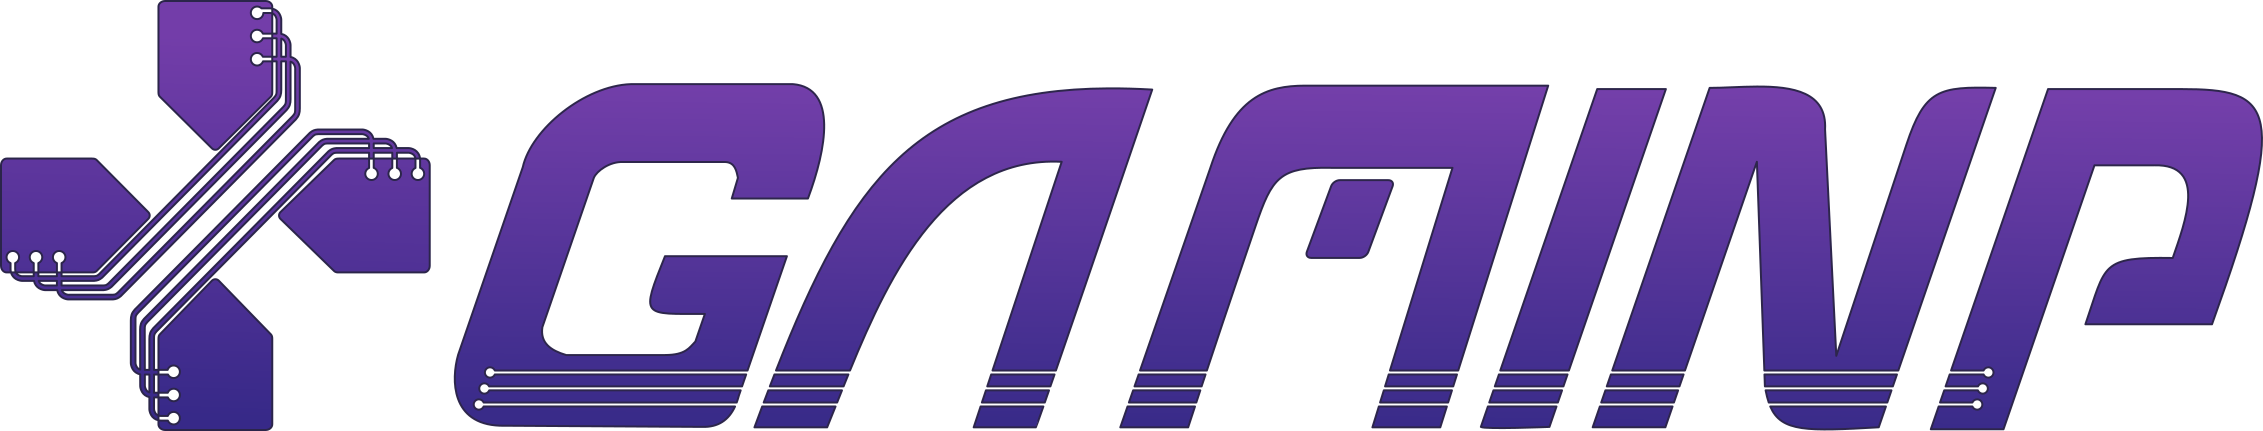
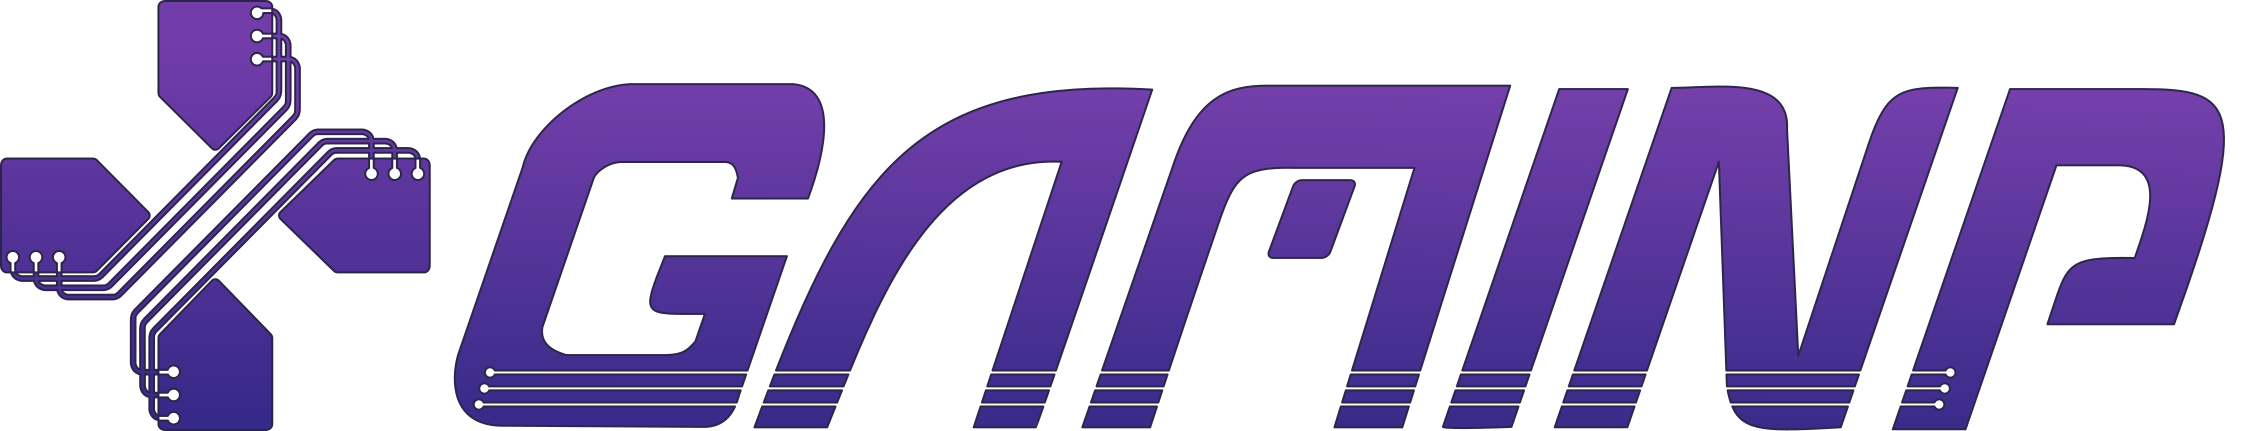
Corrige Errinhos

Changed region(s): [[0.464, 0.181, 1.0, 1.0]]

diff --git a/index.html b/index.html
@@ -28,7 +28,7 @@
   <!-- Navigation -->
   <nav class="navbar navbar-expand-lg navbar-dark fixed-top" id="mainNav">
     <div class="container" id="animate">
-      <a class="navbar-brand js-scroll-trigger" href="#page-top"><img class="img-fluid" src="img/Full_composition.png" height="50" width="300" alt=""></a>
+      <a class="navbar-brand js-scroll-trigger" href="#page-top"><img class="img-fluid" src="img/Full_composition_S.png" height="50" width="300" alt=""></a>
   
       <button class="navbar-toggler navbar-toggler-right" type="button" data-toggle="collapse" data-target="#navbarResponsive" aria-controls="navbarResponsive" aria-expanded="false" aria-label="Toggle navigation">
         Menu
@@ -36,6 +36,9 @@
       </button>
       <div class="collapse navbar-collapse" id="navbarResponsive">
         <ul class="navbar-nav text-uppercase ml-auto">
+          <li class="nav-item">
+                <a class="nav-link js-scroll-trigger" href="#about">Sobre</a>
+            </li>
           <li class="nav-item">
              <a class="nav-link js-scroll-trigger" href="#portfolio">Projetos</a>
           </li>
@@ -54,11 +57,50 @@
   <header class="masthead">
     <div class="container">
       <div class="intro-text">
-        <div class="intro-lead-in"><img class="img-fluid" src="img/Full_composition_S.png" alt=""></div>
+        <div class="intro-lead-in"><img class="img-fluid" src="img/Full_composition.png" alt=""></div>
         <div class="intro-heading text-uppercase">experimentação e desenvolvimento de jogos</div>
       </div>
     </div>
   </header>
+  <section id="about">
+    <div class="container">
+      <div class="row">
+        <div class="col-lg-12 text-center">
+          <h2 class="section-heading text-uppercase">Sobre</h2>
+          <h3 class="section-subheading text-muted">Não sei oque colocar/como colocar.</h3>
+          <p class="text-muted">O Gaminp é um grupo criado por alunos do curso de Jogos Digitais da FATEC Americana, com sede na própria FATEC de incentivo a desenvolvimento de jogos, de iniciativa e organização de alunos, que visa trazer conteúdo e prática de desenvolvimento para todos os alunos que se interessarem, trabalhando com a ideia de fomentar a troca de conhecimento entre alunos no processo de criação, além de estimular o trabalho em equipe. 
+            As atividades do grupo ocorrerão aos sábados no período da tarde,  durante o decorrer do período letivo.
+            </p>
+        </div>  
+      </div>
+      <div class="row text-center">
+        <div class="col-md-4">
+          <span class="fa-stack fa-4x">
+            <i class="fas fa-circle fa-stack-2x text-primary"></i>
+            <i class="fas fa-book fa-stack-1x fa-inverse"></i>
+          </span>
+          <h4 class="service-heading">Estudo</h4>
+          <p class="text-muted">Lorem ipsum dolor sit amet, consectetur adipisicing elit. Minima maxime quam architecto quo inventore harum ex magni, dicta impedit.</p>
+        </div>
+        <div class="col-md-4">
+          <span class="fa-stack fa-4x">
+            <i class="fas fa-circle fa-stack-2x text-primary"></i>
+            <i class="fas fa-gamepad fa-stack-1x fa-inverse"></i>
+          </span>
+          <h4 class="service-heading">Gamedev</h4>
+          <p class="text-muted">A criação de jogos, o trabalho de equipe, além do desenvolvimento de jogos todos os sábados, uma game jam online por semestre para incentivar o trabalho em grupo com uma temática dada e com um prazo estipulado. Enxerga-se também a necessidade de criação de um repositório para disponibilização dos assets para jogos que forem criados.</p>
+        </div>
+        <div class="col-md-4">
+          <span class="fa-stack fa-4x">
+            <i class="fas fa-circle fa-stack-2x text-primary"></i>
+            <i class="fas fa-calendar-alt fa-stack-1x fa-inverse"></i>
+          </span>
+          <h4 class="service-heading">Eventos</h4>
+          <p class="text-muted">Pretende-se trazer conteúdo aos alunos em forma de palestras com profissionais de áreas pertinente a Jogos Digitais e aulas práticas de criação de material, para que exponham conhecimento em palestras abertas a todos os alunos da Fatec Americana. Trazer palestrantes, aulas sobre unity e outros softwares usados na criação.</p>
+        </div>
+      </div>
+    </div>
+  </section>
 
   <!-- Projetos Grid -->
   <section class="bg-light" id="portfolio">
@@ -168,6 +210,9 @@
         </div>
       </div>
       <div class="row text-center">
+          <div class="col-lg-12 text-center">
+              <img class="img-fluid" src="https://cdn.discordapp.com/attachments/227141030355402752/554934190584496138/under.png" height="50" width="300" alt="">
+            </div>
         <!--<div class="col-md-4">
           <span class="fa-stack fa-4x">
             <i class="fas fa-circle fa-stack-2x text-primary"></i>
@@ -202,7 +247,6 @@
       <div class="row">
         <div class="col-lg-12 text-center">
           <h2 class="section-heading text-uppercase">Time do Gaminp</h2>
-          <h3 class="section-subheading text-muted">sla se vcs vão querer usar esse campo.</h3>
         </div>
       </div>
       <div class="row">
@@ -210,7 +254,7 @@
           <div class="team-member">
               <id="canvasRegn" ><img class="mx-auto rounded-circle" src="img/team/Leo.jpg" alt="">
             <h4>Leonardo Dantas</h4>
-            <p class="text-muted">O cara da Xiaomi</p>
+            <p class="text-muted">Administrador</p>
             <ul class="list-inline social-buttons">
               <li class="list-inline-item">
                 <a href="#">
@@ -234,7 +278,7 @@
           <div class="team-member">
             <img class="mx-auto rounded-circle" src="img/team/Cassimiro.jpg" alt="">
             <h4>Gabriel Cassimiro</h4>
-            <p class="text-muted">Lead Marketer</p>
+            <p class="text-muted">Administrador</p>
             <ul class="list-inline social-buttons">
               <li class="list-inline-item">
                 <a href="#">
@@ -258,7 +302,7 @@
           <div class="team-member">
             <img class="mx-auto rounded-circle" src="img/team/Carol.jpg" alt="">
             <h4>Maria Carolina Damiani</h4>
-            <p class="text-muted">Artista Linda</p>
+            <p class="text-muted">Administradora</p>
             <ul class="list-inline social-buttons">
               <li class="list-inline-item">
                 <a href="#">
@@ -282,7 +326,7 @@
           <div class="team-member">
             <img class="mx-auto rounded-circle" src="img/team/Dani.jpg" alt="">
             <h4>Daniele Alves</h4>
-            <p class="text-muted">Lead Marketer</p>
+            <p class="text-muted">Administradora</p>
             <ul class="list-inline social-buttons">
               <li class="list-inline-item">
                 <a href="#">
@@ -306,7 +350,7 @@
           <div class="team-member">
             <img class="mx-auto rounded-circle" src="img/team/Mariana.jpg" alt="">
             <h4>Marina Demori</h4>
-            <p class="text-muted">Eventos</p>
+            <p class="text-muted">Organização de Eventos</p>
             <ul class="list-inline social-buttons">
               <li class="list-inline-item">
                 <a href="#">
@@ -330,7 +374,7 @@
           <div class="team-member">
             <img class="mx-auto rounded-circle" src="img/team/Vinicius.jpg"id="imgkonami">
             <h4>Vinicius Carli Bustamanti</h4>
-            <p class="text-muted">Cara do site</p>
+            <p class="text-muted">Desenvolvimento</p>
             <ul class="list-inline social-buttons">
               <li class="list-inline-item">
                 <a href="#">
